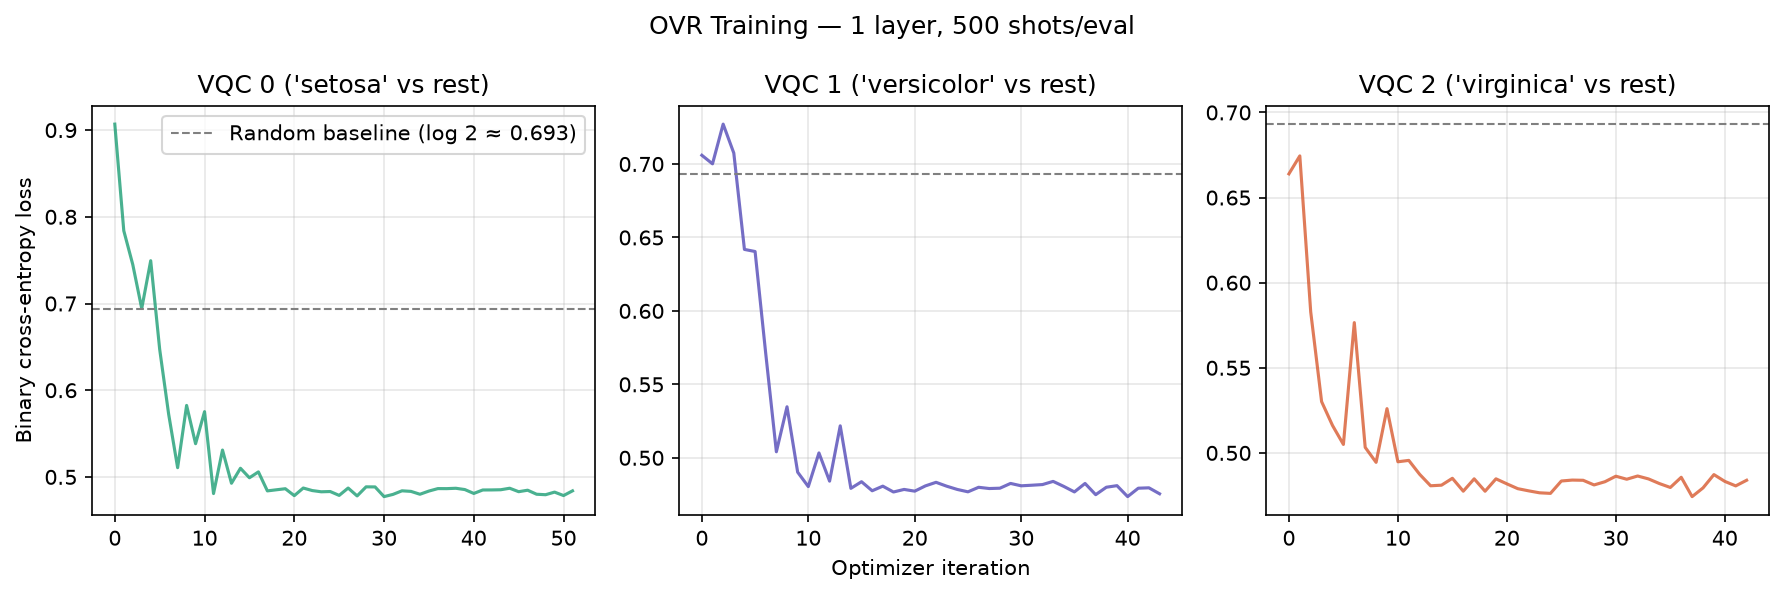
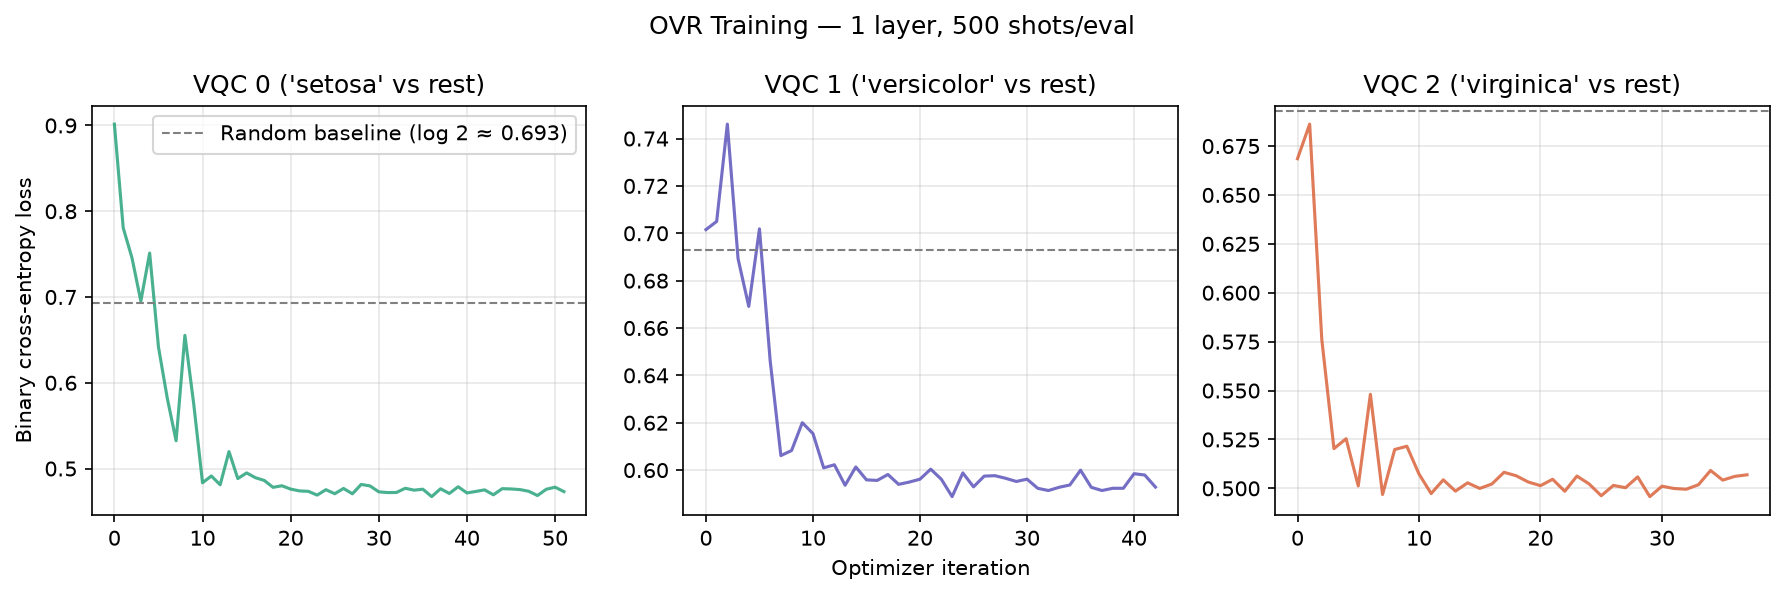
Circuit Ablation Plots + src functions

diff --git a/src/multiclass.py b/src/multiclass.py
@@ -1,0 +1,99 @@
+import numpy as np
+from sklearn.metrics import accuracy_score
+from ansatz import build_vqc, get_prob
+from training import train, evaluate
+
+def make_binary_labels(y, positive_class):
+    '''
+    Effect:
+        convert multiple labels to binary OVR
+        positive class = 1, everything else = 0
+    Requires:
+        y: array
+        positive_class: int
+    '''
+    return (y == positive_class).astype(int)
+
+
+def ovr_train(X_train, y_train, n_classes=3, n_layers=1,
+              shots=500, maxiter=150, seed=42, verbose=True):
+    '''
+    Effects:
+        Trains one-vs-rest VQCs for multiclass classification
+
+    Requires:
+        X_train: np.ndarray, shape (n_samples, 4)
+        y_train: np.ndarray of integer class labels
+        n_classes: int
+        n_layers: int
+        shots, maxiter, seed: training hyperparameters
+        verbose: bool
+
+    Returns:
+        ovr_thetas: dict {class_label: np.ndarray of optimized params}
+        ovr_loss_histories: dict {class_label: list of loss values}
+    '''
+    ovr_loss_history = {}
+    ovr_thetas = {}
+
+    for c in range(n_classes):
+        if verbose:
+            print(f"Training VQC {c} (class {c} vs rest)...")
+        y_bin = make_binary_labels(y_train, positive_class=c)
+        theta_opt_c, loss_history_c = train(
+            X_train, y_bin,
+            n_layers=n_layers, shots=shots,
+            maxiter=maxiter, seed=seed + c,
+            verbose=verbose
+        )
+        ovr_loss_history[c] = loss_history_c
+        ovr_thetas[c] = theta_opt_c
+
+    return ovr_thetas, ovr_loss_history
+
+
+def ovr_predict(x, ovr_thetas, n_layers=1, shots=1000):
+    '''
+    Effect:
+        predicts the class of x using one-vs-rest VQCs
+        runs all 3 classifiers and returns the class with highest P(|1>)
+
+    Requires:
+        x: array-like, shape (4,)
+            normalized feature vector
+        ovr_thetas: dict {class_label: theta_vals}
+            optimized parameters for each binary VQC
+        n_layers: int
+        shots: int
+
+    Returns:
+        predicted: int (0, 1, or 2)
+        probs: dict {class_label: P(|1>)}
+    '''
+    probs = {}
+    for c, theta_vals in ovr_thetas.items():
+        qc, theta = build_vqc(x, n_layers=n_layers)
+        probs[c] = get_prob(qc, theta, theta_vals, shots)
+    predicted = max(probs, key=probs.get)
+
+    return predicted, probs
+
+
+def ovr_evaluate(X_test, y_test, ovr_thetas, n_layers=1, shots=1000):
+    '''
+    Effect:
+        Evaluates 3-class OVR accuracy on a test set
+
+    Returns:
+        accuracy: float
+        y_preds_ovr: np.ndarray of predicted labels
+        y_probs_ovr: list of dicts
+    '''
+    y_preds_ovr = []
+    y_probs_ovr = []
+    for x in X_test:
+        y_pred_ovr, y_prob_ovr = ovr_predict(x, ovr_thetas, n_layers=n_layers, shots=shots)
+        y_preds_ovr.append(y_pred_ovr)
+        y_probs_ovr.append(y_prob_ovr)
+    accuracy = accuracy_score(y_test, np.array(y_preds_ovr))
+    return accuracy, y_preds_ovr, y_probs_ovr